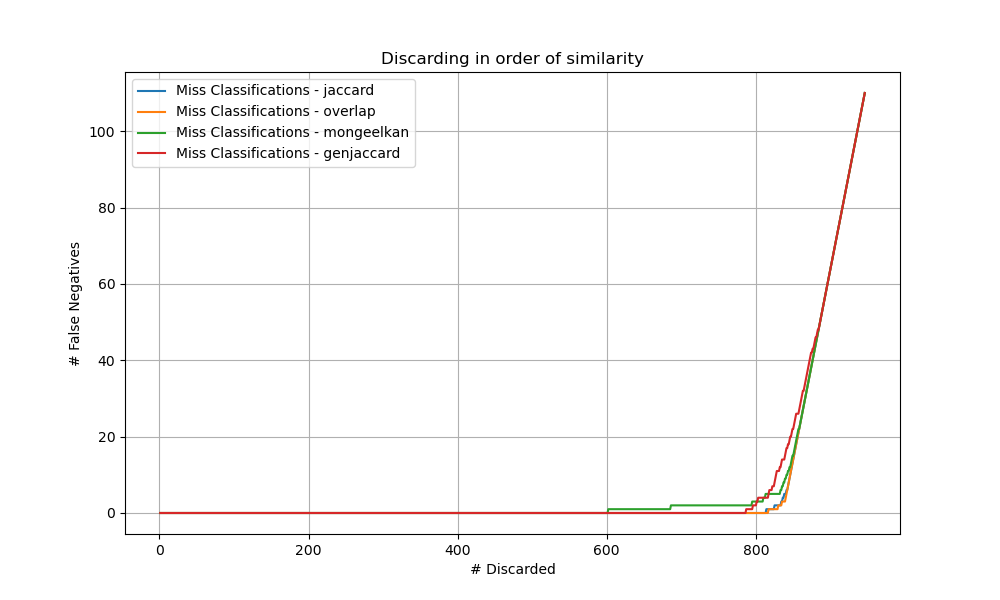
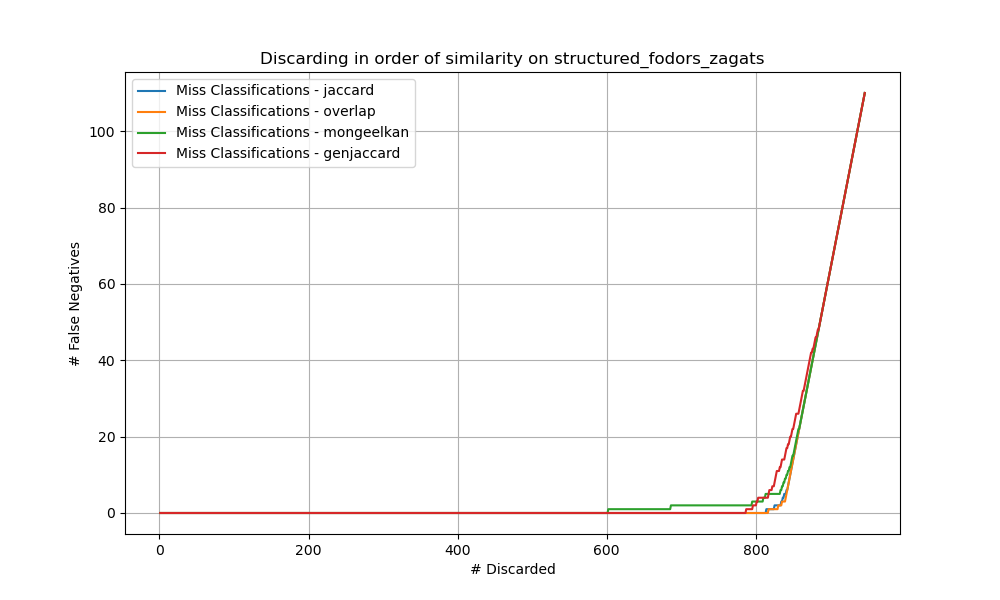
Change title of figures

Changed region(s): [[0.248, 0.09, 0.775, 0.12]]

diff --git a/preclassify_eval.py b/preclassify_eval.py
@@ -38,7 +38,7 @@ if __name__ == "__main__":
             plt.plot(x_values, y_values, label=f"Miss Classifications - {name}")
         plt.xlabel("# Discarded")
         plt.ylabel("# False Negatives")
-        plt.title("Discarding in order of similarity")
+        plt.title(f"Discarding in order of similarity on {ds}")
         plt.legend()
         plt.grid(True)
         plt.savefig(f"figures/{ds}-miss-classifications.png")
